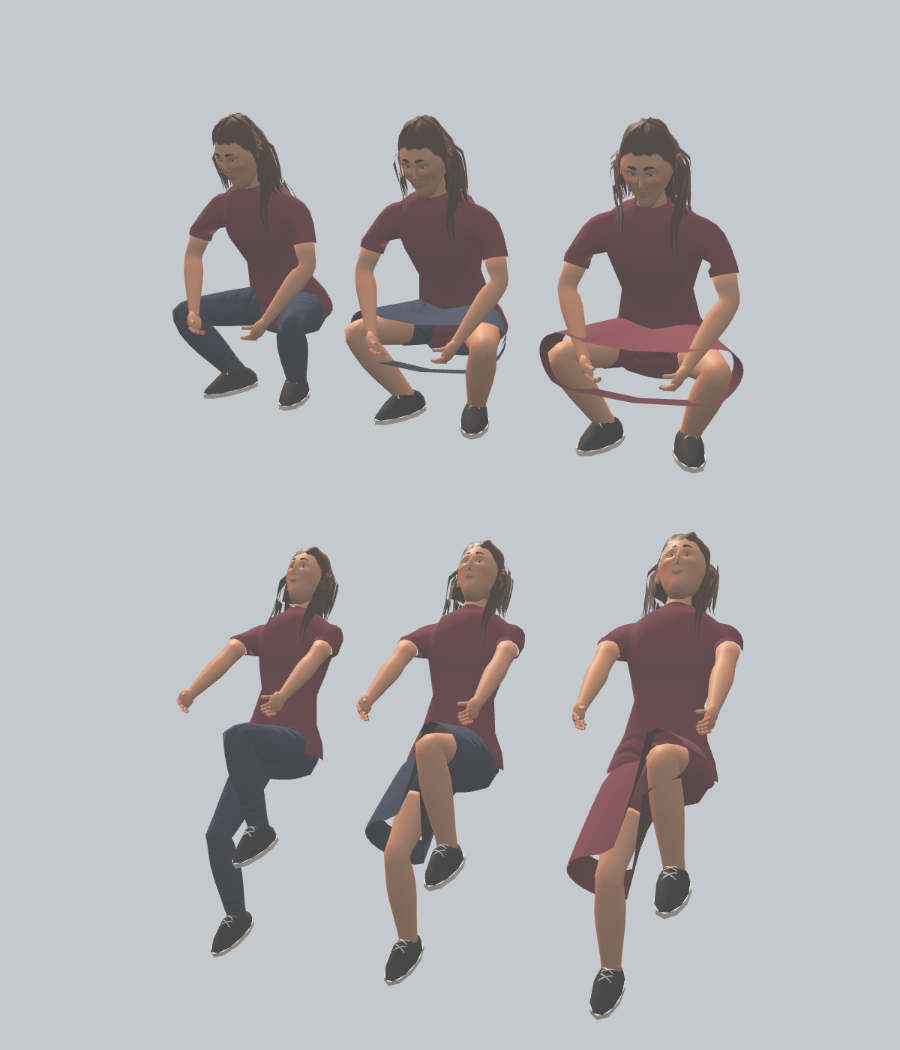
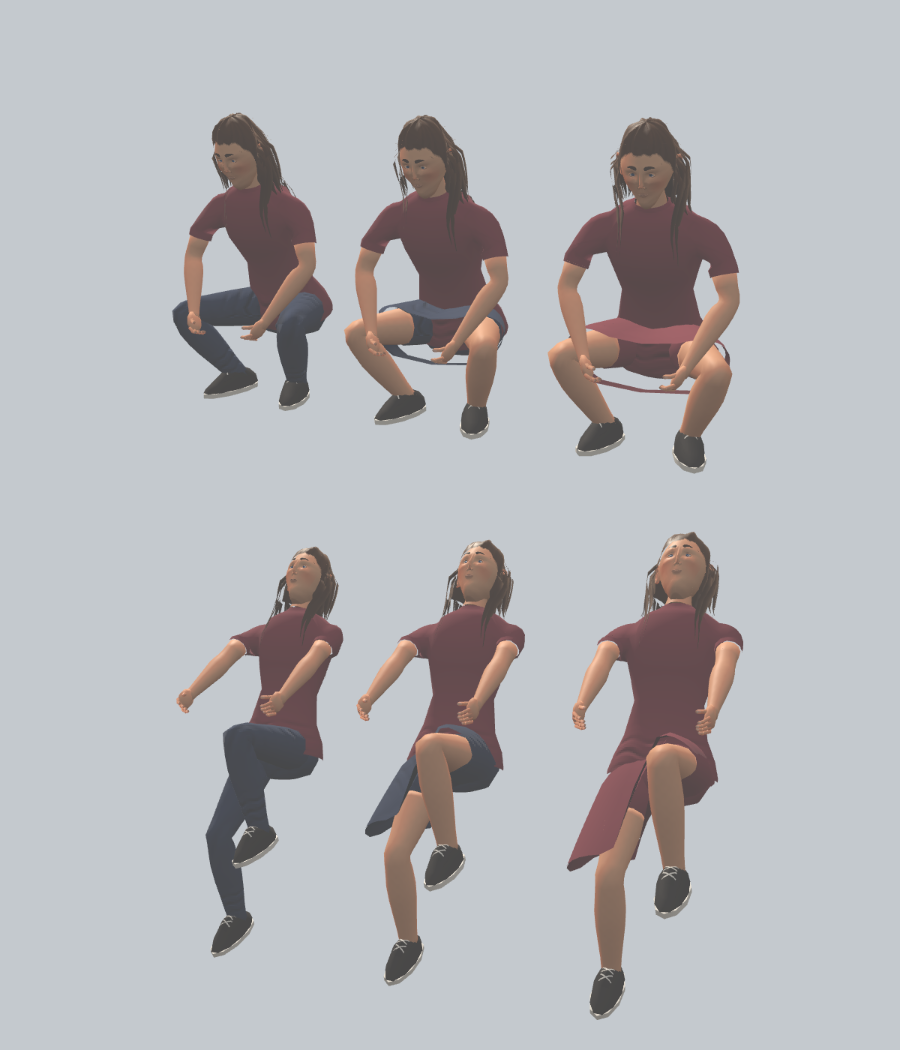
Skirt and dress: back hem rests on the seat, hem rides up on fully flexed thighs instead of ringing the knees; tests, refreshed images, Refs #2157

diff --git a/src/avatarskirt.js b/src/avatarskirt.js
@@ -10,7 +10,7 @@
 //    skirt lies on the lap. The same block lets the hem flare out with #2014's hem spring. No attribute, texture or draw call is added.
 //  - Under the skirt the legs are the shorts' (in the skirt's colour up to the shorts' hem, bare below), so a gap shows cloth, not skin.
 // Older clients do not know p3 / p4 and draw straight trousers (config.js decodeLookExt accepts only known `legs` values).
-import { AVATAR_SKIRT as K } from './config.js';
+import { AVATAR_SKIRT as K, AVATAR_SURFACE as SURFACE } from './config.js';
 
 const clamp = (v, lo, hi) => Math.max(lo, Math.min(hi, v));
 const smooth = (e0, e1, x) => { const t = clamp((x - e0) / (e1 - e0), 0, 1); return t * t * (3 - 2 * t); };
@@ -40,6 +40,28 @@ export function drapeRadii(y, kind) {
   return [lerp(K.drape.waist[0], K.drape.hem[0], t), lerp(K.drape.waist[1], K.drape.hem[1], t)];
 }
 
+/** The drape target's height and depth (z) for a vertex of the ring at height y whose direction is cos = cos(angle from the front): the back
+ * half (cos < 0) is lifted by `drape.backLift` towards the waist and slimmed to `drape.backDepth`, so a seated figure's back hem lies on
+ * the seat behind the thighs instead of hanging below the seat surface. dz: the ordinary target depth. */
+export function backTarget(y, cos, dz, kind) {
+  const hem = skirtHem(kind), t = clamp((K.waist[0][0] - y) / (K.waist[0][0] - hem), 0, 1), bb = smooth(0.15, -0.5, cos), b = bb * t;
+  const ty = y + K.drape.backLift * b, hug = legDepth(ty) + K.drape.backMargin;
+  return [ty, cos * lerp(dz, Math.min(dz, Math.max(hug, 0)), bb)];
+}
+/** The thigh's half-depth (z) at thigh-local height y (SURFACE.leg, hips-local y = the joint's, plus the shorts' ease). */
+function legDepth(y) {
+  const L = SURFACE.leg;
+  for (let i = 1; i < L.length; i++) if (y >= L[i][0]) { const a = L[i - 1], c = L[i], u = (y - a[0]) / (c[0] - a[0]); return a[2] + u * (c[2] - a[2]) + 0.006; }
+  return L.at(-1)[2] + 0.006;
+}
+
+/** How far (m) a vertex at hips-local height y is lifted towards the waist (the skirt is shortened) when the thigh is fully flexed (`swing` 1: #2034's
+ * uClothHip, a squat, a chair seat, the pedal's top; a half-seated or walking thigh is below `sag.from`): on a flexed thigh the hem rides up the thigh and bunches on the
+ * lap instead of stretching into a ring round the knees. Applied in the bind pose, before skinning. */
+export function hemSag(y, swing, cos = 1) { // cos: the vertex's direction from the front; the back half is shortened by backTarget instead
+  return K.sag.drop * smooth(K.sag.from, K.sag.to, swing) * smooth(K.sag.rowFrom, K.sag.rowTo, -y) * (1 - smooth(0.15, -0.5, cos));
+}
+
 /** The thighs' share of a vertex at (x, y, z): 0 at the waist (`ramp.start`), 1 by `ramp.front` in front … `ramp.back` behind. */
 export function thighShare(x, y, z) {
   const front = 0.5 + 0.5 * z / (Math.hypot(x, z) || 1);
@@ -55,7 +77,10 @@ export function skirtWeights(x, y, z) {
 }
 
 /** How far vertex (x, y, z) is draped (0 … 1) for the thighs' forward swings `swingL` / `swingR` (0 hanging … 1 sitting). */
-export const drapeAmount = (x, y, z, swingL, swingR) => thighShare(x, y, z) * lerp(swingR, swingL, leftShare(x));
+export function drapeAmount(x, y, z, swingL, swingR) {
+  const swing = lerp(swingR, swingL, leftShare(x)), back = smooth(0.15, -0.5, 2 * (0.5 + 0.5 * z / (Math.hypot(x, z) || 1)) - 1);
+  return thighShare(x, y, z) * lerp(swing, Math.min(1, swing * K.drape.backBoost), back);
+}
 
 /** The skirt's geometry as plain arrays: `position` / `drape` (the slim target) [x, y, z] per vertex, `weights` [hips, L, R], `shade`,
  * `index` (outward winding; the lining's inward), `rows` × (`sides` + 1) outer vertices first (a duplicated seam column, as
@@ -66,7 +91,8 @@ export function skirtTube(kind, sides = K.sides, inset = 0.002) {
     const [y, rx, rz] = rings[row], [dx, dz] = drapeRadii(y, kind);
     for (let j = 0; j <= sides; j++) {
       const a = (j / sides) * Math.PI * 2, x = Math.sin(a) * (rx - off), z = Math.cos(a) * (rz - off);
-      position.push(x, y, z); drape.push(Math.sin(a) * (dx - off), y, Math.cos(a) * (dz - off));
+      const [ty, tz] = backTarget(y, Math.cos(a), dz - off, kind); // #2157: the seat's cloth is shorter and slimmer
+      position.push(x, y, z); drape.push(Math.sin(a) * (dx - off), ty, tz);
       weights.push(skirtWeights(x, y, z)); shade.push(k);
     }
   };
@@ -85,7 +111,7 @@ export function drapePoint(p, d, swingL, swingR) {
 }
 
 /** Vertex GLSL (bind pose, before the build's offsets and skinning): the drape and the hem's sway for skirt vertices (facePart 0 with a
- * drape target in faceAnchor; every other body vertex's faceAnchor is 0). `g`: { hipY (the hips' bind height), thighs [L, R] bone indices }.
+ * drape target in faceAnchor; every other body vertex's faceAnchor is 0). `g`: { hipY (the hips' bind height), hips (bone index), thighs [{ i, knee }] L, R: the thigh bone's index and the knee's bind position }.
  * Needs uClothHip (#2034) and #2014's uSwayHem / uSwayOn. */
 export function skirtGLSL(g) {
   const f = (v) => (+v).toFixed(5), sh = g.hipY;
@@ -95,9 +121,12 @@ if (facePart < 0.5 && dot(faceAnchor, faceAnchor) > 0.0) { // #2157 (src/avatars
   vec3 kq = transformed;
   float kL = smoothstep(${f(-K.split)}, ${f(K.split)}, kq.x), kFront = 0.5 + 0.5 * kq.z / max(length(kq.xz), 0.0001);
   float kS = 1.0 - smoothstep(mix(${f(sh + K.ramp.back)}, ${f(sh + K.ramp.front)}, kFront), ${f(sh + K.ramp.start)}, kq.y); // (GLSL wants edge0 < edge1)
-  transformed = mix(kq, faceAnchor, kS * mix(uClothHip.y, uClothHip.x, kL));
+  float kA = mix(uClothHip.y, uClothHip.x, kL), kB = 1.0 - smoothstep(-0.5, 0.15, 2.0 * kFront - 1.0); // (the back follows the swing faster: backTarget)
+  transformed = mix(kq, faceAnchor, kS * mix(kA, min(1.0, kA * ${f(K.drape.backBoost)}), kB));
   vec2 kn = normalize(kq.xz + vec2(0.0, 0.0001));
   transformed.xz += kn * max(0.0, dot(kn, uSwayHem.xz)) * ${f(K.sway)} * kS * kS * uSwayOn.z; // (a flare: only outward)
+  // a fully flexed thigh (a squat) shortens the skirt: hemSag's twin
+  transformed.y += ${f(K.sag.drop)} * smoothstep(${f(K.sag.from)}, ${f(K.sag.to)}, kA) * smoothstep(${f(K.sag.rowFrom)}, ${f(K.sag.rowTo)}, ${f(sh)} - kq.y) * (1.0 - kB);
 }
 #endif`;
 }

diff --git a/src/config.js b/src/config.js
@@ -7752,8 +7752,11 @@ export const AVATAR_SKIRT = {
   rings: [[0.08, 0.19, 0.134], [0.22, 0.205, 0.152], [0.38, 0.219, 0.165], [0.55, 0.232, 0.178], [0.72, 0.244, 0.19], [0.87, 0.253, 0.199], [1, 0.26, 0.205]],
   hem: { skirt: -0.39, dress: -0.45 }, sides: 32,
   ramp: { start: 0.03, front: -0.035, back: -0.2 }, split: 0.07,
-  drape: { waist: [0.185, 0.14], hem: [0.17, 0.1] },
+  drape: { waist: [0.185, 0.14], hem: [0.17, 0.1], backLift: 0.12, backMargin: 0.02, backBoost: 4 },
   lining: [2, 0.62], sway: 2.2,
+  // Seated back hem: the drape target's back half (z < 0) is lifted by `backLift` m (at the hem) and slimmed to the thigh's own half-depth + `backMargin` m, and its
+  // drape follows the thigh's swing `backBoost` times faster (a seated thigh reads only ~0.25), so the back hem rests on the seat. Sag: a fully flexed thigh (#2034's swing `from` … `to`: a squat, a chair seat, the pedal's top) shortens the lower rows (`rowFrom` … `rowTo` m below the hip joint) by up to `drop` m (lifted in the bind pose), so on a squat the hem rides up and bunches on the lap instead of ringing the knees.
+  sag: { drop: 0.15, from: 0.6, to: 0.95, rowFrom: 0.25, rowTo: 0.4 },
 };
 // #2147: the outer layer (look fields `outer` 0 none / 1 jacket / 2 coat and `outerMode` 0 automatic / 1 always). It shares the top's tag `m`
 // (`cut` + 3 × (`outer` + 3 × `outerMode`)), so an older client, which reads only m0-m2, skips it and shows the base top (T-shirt unless the

diff --git a/docs/development/interactions.md b/docs/development/interactions.md
@@ -856,7 +856,7 @@ src/avatar.js          the players' avatars (#705): a neutral human figure on Ol
 
 Outer layer (#2147): the customizer's Kläder panel chooses `outer` (0 none / 1 jacket / 2 coat) and `outerMode` (0 automatic / 1 always on). The choice shares the top's look tag `m` as `cut + 3 × (outer + 3 × outerMode)` (decoder in `decodeLookExt`, `AVATAR_OUTERWEAR` and `outerValue` in config.js); an older client reads only m0–m2, skips the value and shows the base top (T-shirt). Whether it is worn now is never sent: `src/avataroutwear.js` (`stepOuter`, `outerWeather`, `wornLook`, `outerColour`; tunables `AVATAR_OUTERWEAR`, all *guess*) derives it per figure in `Ghost.updateOuter` from `wetEnv` (`temp` below `coldBelow` 10 °C, or rain / snow / hail above `rainMin`, in the open; taken off `takeOffDelay` 4 s after going indoors, or above `warmAbove` 13 °C and dry) and rebuilds the body only when it goes on or off (`setAvatarLook` keeps wetness and idle). Worn = the shared geometry's top model `cut` 3 (zip jacket: hem 7.5 cm lower, collar, front zip strip) or 4 (coat: A-line skirt to mid-thigh, open front edge showing a dark lining, wide open collar), long sleeves, its own palette colour (`outerColour`, picked by the top's colour) in the top region, so seams (`seamLook`: plain hem at the layer's hem), cloth folds (`clothKinds`: sweater), wet / snow, hem sway and the Spider suit atlas apply as for the top. The customizer's mirror preview (`AvatarPreview.draw`) and our mirror image while the customizer is open (`Ghost.outerPreview`, set by main.js) always show the chosen layer. Cost: one more top model in the geometry cache (jacket ~+100, coat ~+200 triangles over the hoodie, no new draw call or texture). Known limit: the coat's hem lies on the torso bone, so a long stride can put a thigh through its front (the open front edge hides most of it). Checks: `node --test tools/avatarouterweartest.mjs`; `tools/browsertest.sh node tools/avataroutweartest.cjs SITE OUT` (component page `tools/avataroutwear.html`) and `tools/avatarouterweargamebrowser.cjs SITE docs/verification/2147` (real app: customizer choice, own body outdoors in snow, doorway and indoors).
 
-Skirt and dress (#2157): the trouser models gain `legs` 3 (Kjol: an A-line skirt in the trousers' colour) and 4 (Klänning: the same skirt, knee length, in the top's colour under the chosen top, read as one dress with a waist seam); the customizer's section is "Byxor och kjol". They are new values of the trousers' tag `p` (p3 / p4, `AVATAR_CLOTHES.legs.names`): an older client accepts only p0–p2, skips the value and draws straight trousers; the Worker only checks the form, so no wire or Worker change. `src/avatarskirt.js` (pure; tunables `AVATAR_SKIRT`, all *guess*) builds one open 32-sided tube in the hips' frame from a waist tucked ≥ 8 mm inside the top's hem (#2019, `tools/avatarhemtest.mjs` covers it) to the hem, plus a darker lining inside the last rows; `bodyParts` puts it on the hips with per-vertex weights between the hips and both thighs (`skirtWeights`: the hips' at the waist, wholly the thighs' from the hip crease in front / lower at the back, split left / right across the middle), draws the shorts under it in the skirt's colour and the seat in it, and leaves out the fly. The vertex shader (`skirtGLSL`, before the build's offsets and skinning) drapes it with #2034's thigh swing `uClothHip` towards a slim target stored in the skirt vertices' otherwise unused `faceAnchor` (facePart 0; that also identifies them), so a sitting, squatting or pedalling figure's skirt lies on the lap instead of standing out, and flares the hem outward with #2014's hem spring (`uSwayHem` × `sway`). The dress's tube counts as the top's body (`suitRole` 1: the top's folds, weave and side seams); the skirt has the trousers' (plain twill, `clothKinds`) seams with its hem as the leg hem (`seamLook.legY`). Swimming, the gym and flying need no swap: the cloth follows the thighs there too. Cost: +724 triangles over straight trousers (shared geometry cache, one more variant per kind), no draw call, texture, attribute or uniform. Known limits: knees spread wide (a deep squat) stretch the hem between them as a band; normals are not re-derived for the drape. Checks: `node --test tools/avatarskirttest.mjs` (skins the tube on plain arrays in 14 poses — stand, walk, run, sit, squat, cycle, swim kick, gym step-up, jump tuck — and fails if a vertex lies inside a thigh below the hip crease or a ring does not enclose a thigh's cross-section; it also fails a skirt hung on the hips alone; plus weights, geometry, look code and the GLSL gate); `tools/browsertest.sh node tools/avatarskirtbrowser.cjs SITE docs/verification/2157` (component page `tools/avatarskirt.html`: trousers / skirt / dress walking, sitting, squatting, pedalling and the mirror preview; the real app's customizer Kjol and a woman in a dress in the game view).
+Skirt and dress (#2157): the trouser models gain `legs` 3 (Kjol: an A-line skirt in the trousers' colour) and 4 (Klänning: the same skirt, knee length, in the top's colour under the chosen top, read as one dress with a waist seam); the customizer's section is "Byxor och kjol". They are new values of the trousers' tag `p` (p3 / p4, `AVATAR_CLOTHES.legs.names`): an older client accepts only p0–p2, skips the value and draws straight trousers; the Worker only checks the form, so no wire or Worker change. `src/avatarskirt.js` (pure; tunables `AVATAR_SKIRT`, all *guess*) builds one open 32-sided tube in the hips' frame from a waist tucked ≥ 8 mm inside the top's hem (#2019, `tools/avatarhemtest.mjs` covers it) to the hem, plus a darker lining inside the last rows; `bodyParts` puts it on the hips with per-vertex weights between the hips and both thighs (`skirtWeights`: the hips' at the waist, wholly the thighs' from the hip crease in front / lower at the back, split left / right across the middle), draws the shorts under it in the skirt's colour and the seat in it, and leaves out the fly. The vertex shader (`skirtGLSL`, before the build's offsets and skinning) drapes it with #2034's thigh swing `uClothHip` towards a slim target stored in the skirt vertices' otherwise unused `faceAnchor` (facePart 0; that also identifies them), so a sitting, squatting or pedalling figure's skirt lies on the lap instead of standing out, and flares the hem outward with #2014's hem spring (`uSwayHem` × `sway`). The dress's tube counts as the top's body (`suitRole` 1: the top's folds, weave and side seams); the skirt has the trousers' (plain twill, `clothKinds`) seams with its hem as the leg hem (`seamLook.legY`). Swimming, the gym and flying need no swap: the cloth follows the thighs there too. Cost: +724 triangles over straight trousers (shared geometry cache, one more variant per kind), no draw call, texture, attribute or uniform. Known limits: knees spread wide (a deep squat) stretch the hem between them as a band; normals are not re-derived for the drape. Checks: `node --test tools/avatarskirttest.mjs` (skins the tube on plain arrays in 14 poses — stand, walk, run, sit, squat, cycle, swim kick, gym step-up, jump tuck — and fails if a vertex lies inside a thigh below the hip crease or a ring does not enclose a thigh's cross-section; it also fails a skirt hung on the hips alone; plus weights, geometry, look code and the GLSL gate); `tools/browsertest.sh node tools/avatarskirtbrowser.cjs SITE docs/verification/2157` (component page `tools/avatarskirt.html`: trousers / skirt / dress walking, sitting, squatting, pedalling and the mirror preview; the real app's customizer Kjol and a woman in a dress in the game view). Seat and squat (correction): the seated back half's drape target is lifted and slimmed to the thigh's own depth (`AVATAR_SKIRT.drape.backLift/backMargin/backBoost`, `backTarget`), so the back hem rests on the seat; on a fully flexed thigh (swing 1) the front and sides are shortened in the bind pose (`AVATAR_SKIRT.sag`, `hemSag`), so a squat's hem bunches on the lap instead of ringing the knees.
                        `AVATAR_HAIR`: shells projected onto the skull ∪ jaw above a real hairline — forehead, temples, sideburns, over the
                        ears, nape — feathered at the edge, with per-column strand shading via a `shade` vertex attribute; long hair adds a
                        two-sided curtain kept off ears/neck/torso in the bind pose with a middle parting; the beanie is ribbed with a rolled cuff
